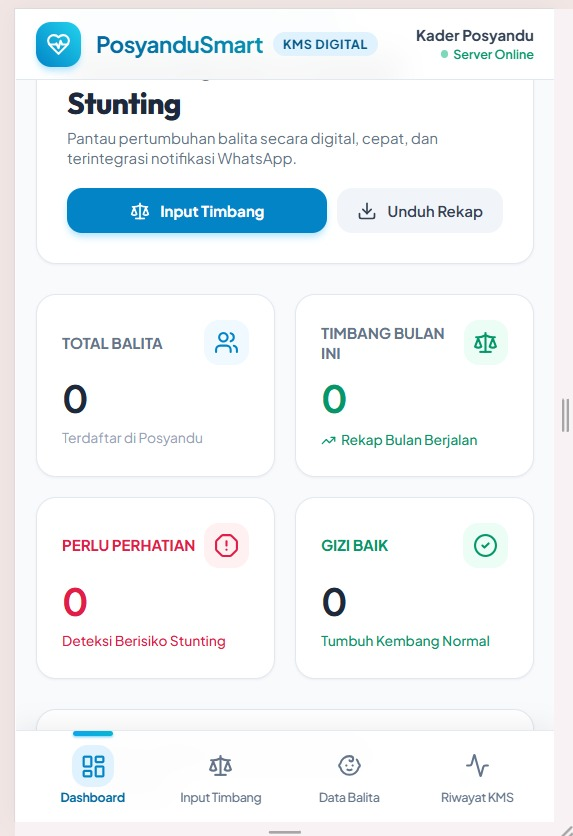
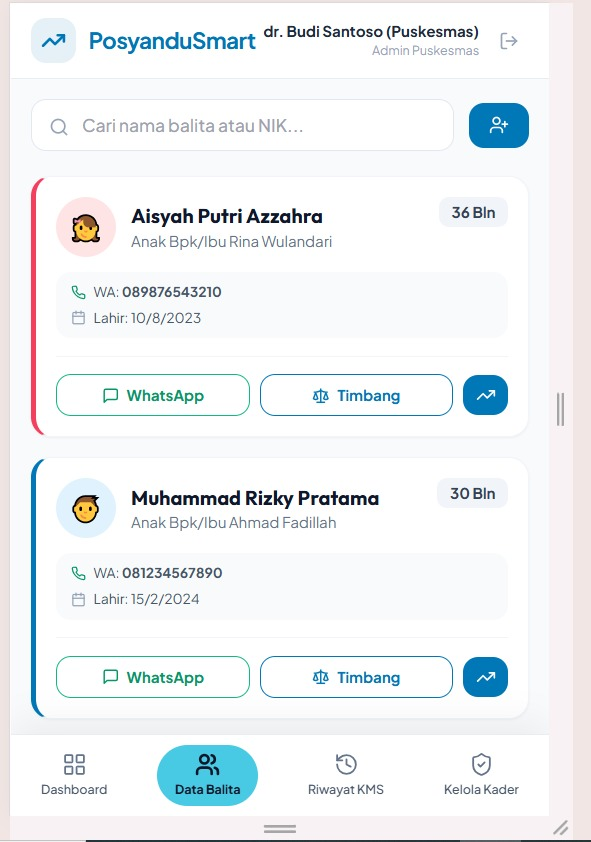
style:hapus demo pada login

diff --git a/backend/src/controllers/authController.js b/backend/src/controllers/authController.js
@@ -38,14 +38,131 @@ async function login(req, res) {
 // GET /api/posyandu
 async function getPosyanduList(req, res) {
   try {
-    const [rows] = await pool.query(`SELECT * FROM posyandu ORDER BY nama_posyandu ASC`);
+    const [rows] = await pool.query(`
+      SELECT p.*,
+        (SELECT COUNT(*) FROM anak WHERE posyandu_id = p.id) AS total_balita,
+        (SELECT COUNT(*) FROM users WHERE posyandu_id = p.id) AS total_kader
+      FROM posyandu p 
+      ORDER BY p.nama_posyandu ASC
+    `);
     res.json({ success: true, data: rows });
   } catch (error) {
     res.status(500).json({ success: false, message: 'Gagal mengambil daftar posyandu', error: error.message });
   }
 }
 
+// POST /api/posyandu
+async function createPosyandu(req, res) {
+  try {
+    const { nama_posyandu, desa_kelurahan, kecamatan, kota_kabupaten } = req.body;
+    if (!nama_posyandu || !desa_kelurahan || !kecamatan) {
+      return res.status(400).json({ success: false, message: 'Nama posyandu, kelurahan, dan kecamatan wajib diisi' });
+    }
+
+    const [result] = await pool.query(
+      `INSERT INTO posyandu (nama_posyandu, desa_kelurahan, kecamatan, kota_kabupaten) VALUES (?, ?, ?, ?)`,
+      [nama_posyandu, desa_kelurahan, kecamatan, kota_kabupaten || 'Depok']
+    );
+
+    res.status(201).json({ success: true, message: 'Posyandu berhasil ditambahkan', data: { id: result.insertId } });
+  } catch (error) {
+    res.status(500).json({ success: false, message: 'Gagal menambahkan posyandu', error: error.message });
+  }
+}
+
+// GET /api/users (Kelola Kader oleh Admin Puskesmas)
+async function getAllUsers(req, res) {
+  try {
+    const [rows] = await pool.query(`
+      SELECT u.id, u.username, u.nama_lengkap, u.role, u.posyandu_id, u.created_at, p.nama_posyandu, p.desa_kelurahan
+      FROM users u
+      LEFT JOIN posyandu p ON u.posyandu_id = p.id
+      ORDER BY u.role ASC, u.nama_lengkap ASC
+    `);
+    res.json({ success: true, data: rows });
+  } catch (error) {
+    console.error('Error getAllUsers:', error);
+    res.status(500).json({ success: false, message: 'Gagal mengambil daftar pengguna', error: error.message });
+  }
+}
+
+// POST /api/users (Admin buatkan akun kader baru)
+async function createUser(req, res) {
+  try {
+    const { username, password, nama_lengkap, role, posyandu_id } = req.body;
+
+    if (!username || !password || !nama_lengkap) {
+      return res.status(400).json({ success: false, message: 'Username, password, dan nama lengkap wajib diisi' });
+    }
+
+    // Cek apakah username sudah ada
+    const [existing] = await pool.query(`SELECT id FROM users WHERE username = ?`, [username]);
+    if (existing.length > 0) {
+      return res.status(400).json({ success: false, message: 'Username sudah digunakan, silakan pilih username lain' });
+    }
+
+    const userRole = role === 'admin_puskesmas' ? 'admin_puskesmas' : 'kader';
+    const posId = posyandu_id ? parseInt(posyandu_id, 10) : null;
+
+    const [result] = await pool.query(
+      `INSERT INTO users (username, password, nama_lengkap, role, posyandu_id) VALUES (?, ?, ?, ?, ?)`,
+      [username, password, nama_lengkap, userRole, posId]
+    );
+
+    res.status(201).json({
+      success: true,
+      message: 'Akun kader berhasil dibuat',
+      data: { id: result.insertId, username, nama_lengkap, role: userRole, posyandu_id: posId },
+    });
+  } catch (error) {
+    console.error('Error createUser:', error);
+    res.status(500).json({ success: false, message: 'Gagal membuat akun kader', error: error.message });
+  }
+}
+
+// PUT /api/users/:id (Admin update kader / reset password)
+async function updateUser(req, res) {
+  try {
+    const { id } = req.params;
+    const { username, password, nama_lengkap, role, posyandu_id } = req.body;
+
+    let sql = `UPDATE users SET username=?, nama_lengkap=?, role=?, posyandu_id=?`;
+    const params = [username, nama_lengkap, role, posyandu_id || null];
+
+    if (password) {
+      sql += `, password=?`;
+      params.push(password);
+    }
+
+    sql += ` WHERE id=?`;
+    params.push(id);
+
+    await pool.query(sql, params);
+    res.json({ success: true, message: 'Data akun berhasil diperbarui' });
+  } catch (error) {
+    console.error('Error updateUser:', error);
+    res.status(500).json({ success: false, message: 'Gagal memperbarui akun', error: error.message });
+  }
+}
+
+// DELETE /api/users/:id (Admin hapus kader)
+async function deleteUser(req, res) {
+  try {
+    const { id } = req.params;
+    await pool.query(`DELETE FROM users WHERE id = ?`, [id]);
+    res.json({ success: true, message: 'Akun berhasil dihapus' });
+  } catch (error) {
+    console.error('Error deleteUser:', error);
+    res.status(500).json({ success: false, message: 'Gagal menghapus akun', error: error.message });
+  }
+}
+
 module.exports = {
   login,
   getPosyanduList,
+  createPosyandu,
+  getAllUsers,
+  createUser,
+  updateUser,
+  deleteUser,
 };

diff --git a/frontend/src/pages/Login.jsx b/frontend/src/pages/Login.jsx
@@ -126,52 +126,6 @@ export default function Login({ onLoginSuccess }) {
           </form>
         </div>
 
-        {/* Demo Credentials Helper Box */}
-        <div className="bg-sky-50/80 border border-sky-200/80 rounded-2xl p-4 text-xs space-y-2">
-          <div className="flex items-center justify-between font-bold text-sky-900">
-            <span className="flex items-center gap-1.5">🔑 Demo Login Credentials</span>
-            <span className="text-[10px] bg-sky-200/60 text-sky-800 px-2 py-0.5 rounded-full">Klik untuk Cepat Masuk</span>
-          </div>
-          <div className="grid grid-cols-2 gap-2 pt-1">
-            <button
-              type="button"
-              onClick={() => {
-                setUsername('kader1');
-                setPassword('123456');
-              }}
-              className="p-2 bg-white rounded-xl border border-sky-100 text-left hover:border-sky-300 transition-all shadow-xs group"
-            >
-              <div className="font-bold text-slate-800 group-hover:text-[#0077b6]">📱 Kader 1 (Mobile UI)</div>
-              <div className="text-[10px] text-slate-500 font-mono">kader1 / 123456</div>
-            </button>
-            <button
-              type="button"
-              onClick={() => {
-                setUsername('kader2');
-                setPassword('123456');
-              }}
-              className="p-2 bg-white rounded-xl border border-sky-100 text-left hover:border-sky-300 transition-all shadow-xs group"
-            >
-              <div className="font-bold text-slate-800 group-hover:text-[#0077b6]">📱 Kader 2 (Mobile UI)</div>
-              <div className="text-[10px] text-slate-500 font-mono">kader2 / 123456</div>
-            </button>
-          </div>
-          <button
-            type="button"
-            onClick={() => {
-              setUsername('admin');
-              setPassword('admin123');
-            }}
-            className="w-full p-2 bg-white rounded-xl border border-sky-100 text-left hover:border-sky-300 transition-all shadow-xs group flex items-center justify-between"
-          >
-            <div>
-              <div className="font-bold text-slate-800 group-hover:text-[#0077b6]">💻 Admin Puskesmas (Desktop UI)</div>
-              <div className="text-[10px] text-slate-500 font-mono">admin / admin123</div>
-            </div>
-            <span className="text-[10px] font-bold text-sky-700 bg-sky-100 px-2 py-1 rounded-md">Isi Form &raquo;</span>
-          </button>
-        </div>
-
         {/* Footer Info Resmi */}
         <div className="text-center space-y-1 text-xs text-slate-400">
           <div className="flex items-center justify-center gap-1.5 text-slate-500 font-semibold">

diff --git a/frontend/src/components/Navbar.jsx b/frontend/src/components/Navbar.jsx
@@ -65,10 +65,10 @@ export default function Navbar({ activeTab, setActiveTab, user, onLogout }) {
           <div className="flex items-center gap-2 sm:gap-3">
             <div className="flex flex-col text-right">
               <span className="text-xs font-bold text-slate-800 leading-tight">
-                {user?.nama_lengkap || 'Kader Posyandu'}
+                {user?.nama_lengkap || 'Pengguna'}
               </span>
               <span className="text-[10px] text-slate-400 capitalize">
-                {user?.role === 'admin_puskesmas' ? 'Admin Puskesmas' : user?.nama_posyandu || 'Kader'}
+                {isAdmin ? 'Admin Puskesmas' : user?.nama_posyandu || 'Kader Posyandu'}
               </span>
             </div>
 
@@ -100,8 +100,8 @@ export default function Navbar({ activeTab, setActiveTab, user, onLogout }) {
                 onClick={() => setActiveTab(item.id)}
                 className={`flex flex-col items-center justify-center py-1 transition-all duration-200 ${
                   isActive
-                    ? 'px-4 sm:px-5 py-1.5 rounded-full bg-[#48cae4] text-slate-900 font-bold shadow-xs'
-                    : 'px-2.5 sm:px-3 text-slate-500 hover:text-slate-900 font-medium'
+                    ? 'px-3.5 sm:px-4 py-1.5 rounded-full bg-[#48cae4] text-slate-900 font-bold shadow-xs'
+                    : 'px-2 sm:px-3 text-slate-500 hover:text-slate-900 font-medium'
                 }`}
               >
                 <Icon className={`w-5 h-5 ${isActive ? 'text-slate-900 stroke-[2.5]' : 'stroke-[1.75]'}`} />

diff --git a/backend/src/routes/api.js b/backend/src/routes/api.js
@@ -17,9 +17,14 @@ router.get('/health', (req, res) => {
   });
 });
 
-// 2. Auth & Posyandu
+// 2. Auth, Posyandu & User Management
 router.post('/auth/login', authController.login);
 router.get('/posyandu', authController.getPosyanduList);
+router.post('/posyandu', authController.createPosyandu);
+router.get('/users', authController.getAllUsers);
+router.post('/users', authController.createUser);
+router.put('/users/:id', authController.updateUser);
+router.delete('/users/:id', authController.deleteUser);
 
 // 3. Data Balita (Anak)
 router.get('/anak', anakController.getAllAnak);
